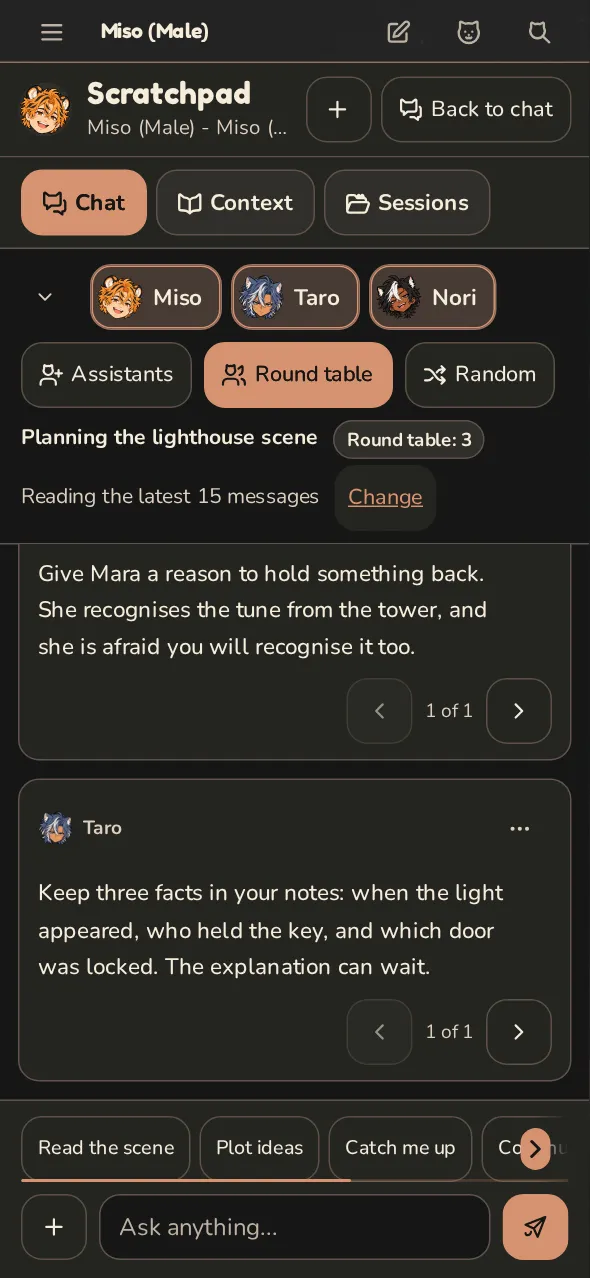
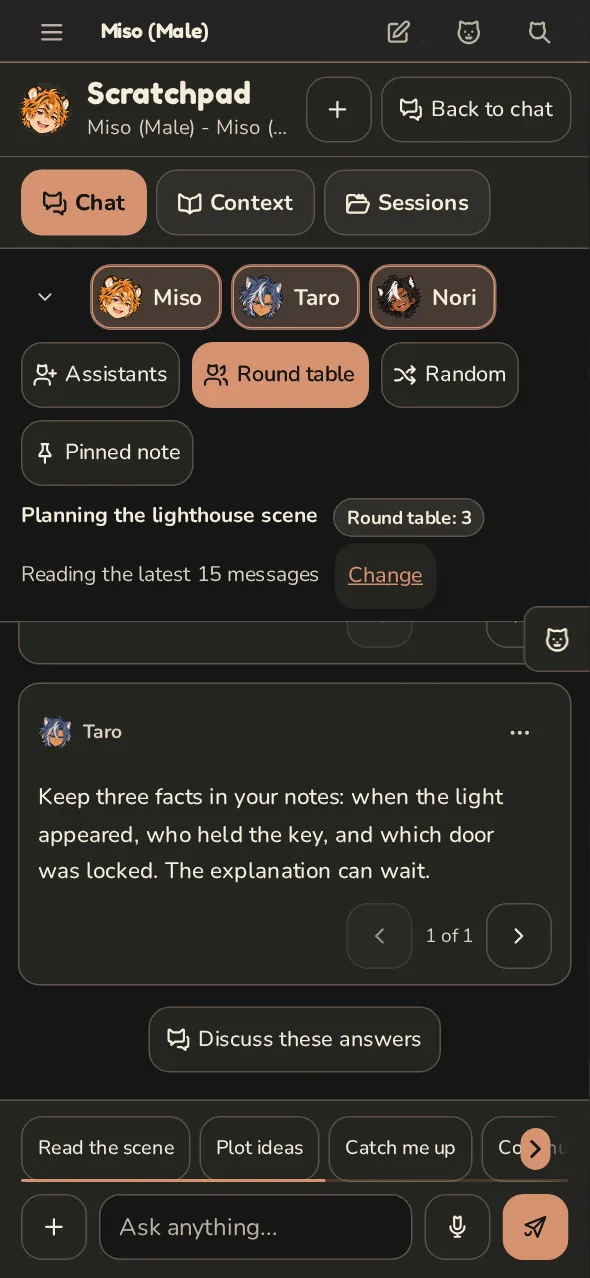
docs(screenshots): refresh desktop and phone workspace views

diff --git a/README.md b/README.md
@@ -6,7 +6,7 @@ I want you to get a reply before you need to understand every setting. The guide
 
 Miso, Taro and Nori explain things in their own voices. You can choose each guide’s male, female or neutral appearance independently. Their dialogue is written documentation; reading it doesn’t call a model.
 
-The site includes 55 pages, a reference for 201 registered macros, twenty-four real demonstration screenshots and a downloadable extension starter. I've reviewed the practical guides for the published [Neconyan 1.5.5 release](https://github.com/platberlitz/Neconyan/releases/tag/v1.5.5) at **`680a05f1`** on 15 November 2026. This edition covers Mewmory's Story tab, Archive tools, in-chat controls, estimates and exports; Scratchpad's quick prompts, typed tools, dictation, branching, export choices and extra change cards; the Translator Agent; the reworked Presets page; the Conversation messenger layout; failed and empty replies; and the Device sync fixes. The two Conversation screenshots are retaken for the new layout; the other twenty-two remain from the 1.5.4 candidate. The macro catalogue retains its reviewed 7 October snapshot. The Scene Note starter and extension styling guide carry the accent button guidance; the other extension examples retain their reviewed 7 October snapshots.
+The site includes 55 pages, a reference for 201 registered macros, twenty-four real demonstration screenshots and a downloadable extension starter. I've reviewed the practical guides for the published [Neconyan 1.5.5 release](https://github.com/platberlitz/Neconyan/releases/tag/v1.5.5) at **`680a05f1`** on 15 November 2026. This edition covers Mewmory's Story tab, Archive tools, in-chat controls, estimates and exports; Scratchpad's quick prompts, typed tools, dictation, branching, export choices and extra change cards; the Translator Agent; the reworked Presets page; the Conversation messenger layout; failed and empty replies; and the Device sync fixes. I refreshed all twenty-four screenshots on 16 November from the 1.5.6 staging build, with the source recorded in [ASSETS.md](ASSETS.md). The macro catalogue retains its reviewed 7 October snapshot. The Scene Note starter and extension styling guide carry the accent button guidance; the other extension examples retain their reviewed 7 October snapshots.
 
 ## Preview locally
 
@@ -43,7 +43,7 @@ Avoid repeated 'same X' phrasing and three-item lists written for rhythm. Keep a
 
 Use demonstration data for screenshots. Desktop captures are 1280×900 and phone captures are 393×852. Keep verification captures in `screenshots/`; that directory is ignored. Images published in the handbook belong in `docs/assets/images/screenshots/`.
 
-Twenty-two of the twenty-four screenshots were taken on 10 November 2026 from the 1.5.4 candidate at `999b46b3`, with the default Calico Dark accent and the larger, rounder Catline icons. The two Conversation screenshots were retaken from 1.5.5 staging on 15 November 2026 and copied from the app README, where they were added in commit `3072a26b`. The Proofreader example uses a fixed sample response through the real Agent workflow, with edit, Undo and Redo checked at both widths. Capture provenance and browser settings are in [ASSETS.md](ASSETS.md). When replacing screenshots, update that record and check the affected guides and screenshot zoom at both widths.
+I captured all twenty-four screenshots on 16 November 2026 from Neconyan at `49d60b17`, using the default Calico Dark accent. The app README uses identical copies. The Proofreader example uses a fixed sample response through the real Agent workflow, with edit, Undo and Redo checked at both widths. Capture provenance and browser settings are in [ASSETS.md](ASSETS.md). When replacing screenshots, update that record and check the affected guides and screenshot zoom at both widths.
 
 ## Update the macro reference
 

diff --git a/ASSETS.md b/ASSETS.md
@@ -4,15 +4,13 @@ The bundled artwork was copied from [Neconyan at 6e0269d0](https://github.com/pl
 
 ## Screenshots
 
-Twenty-two of the twenty-four screenshots were captured on 10 November 2026 from the running [Neconyan 1.5.4 candidate at 999b46b3](https://github.com/platberlitz/Neconyan/tree/999b46b3), with the larger, rounder Catline icons. [Neconyan 1.5.4 is now published](https://github.com/platberlitz/Neconyan/releases/tag/v1.5.4) at release commit `e1f05ec6`; the capture source above remains the actual image provenance. Home, Roleplay, Catelier, Simple Mode, Conversation, Meower, Story Mode, Notebooks, Scratchpad, Agents, Proofreader and Device sync each have a desktop and phone image.
+I captured all twenty-four screenshots on 16 November 2026 from [Neconyan at 49d60b17](https://github.com/platberlitz/Neconyan/tree/49d60b1740f00ee27a5a0b39f255f969748c2c36), the 1.5.6 staging build. Home, Roleplay, Catelier, Simple Mode, Conversation, Meower, Story Mode, Notebooks, Scratchpad, Agents, Proofreader and Device sync each have a desktop and phone image. The app README and this handbook use identical copies.
 
 The captures use disposable demonstration data: Calico Dark with its default accent, bundled assistants and staged chats, posts, notes, a character dossier and a Scratchpad discussion. The default colours were restored and checked before capture. No personal account data was used. The Proofreader example runs the real Agent workflow with one intercepted provider request returning a fixed sample response; its edit, Undo and Redo were checked again at both widths. It isn't a live model demonstration. No external model requests were made.
 
-These replace the twenty-two images captured on 9 November and add the two Device sync images.
+These replace the twenty-two images from the 1.5.4 candidate and the two Conversation images from 1.5.5 staging. Neconyan 1.5.5 remains the published release; the screenshot refresh doesn't change the guides' recorded review version.
 
-The two Conversation images, `desktop-conversation.webp` and `phone-conversation.webp`, are the exception. They were retaken from Neconyan 1.5.5 staging on 15 November 2026 for the new messenger layout and copied unchanged from the app README's `docs/readme/` folder, where they were added in [commit 3072a26b](https://github.com/platberlitz/Neconyan/commit/3072a26b). [Neconyan 1.5.5 is now published](https://github.com/platberlitz/Neconyan/releases/tag/v1.5.5) at release commit `680a05f1`; the capture source above remains the actual image provenance. They show the same staged Miso demonstration text at the same sizes, 1280×900 and 590×1278 pixels. I didn't capture them for this handbook, so the capture notes in this section describe the other twenty-two; the Conversation pair replaces the 10 November Conversation images.
-
-Playwright captured Chromium at 1280×900 for desktop with a pixel ratio of 1, and 393×852 with touch emulation for phone at a pixel ratio of 1.5. These are browser viewport captures, not physical-phone or Safari verification. The screenshots were converted to WebP at quality 80 without resizing or compositing interface elements.
+I used Playwright with Chromium at 1280×900 for desktop with a pixel ratio of 1, and 393×852 with touch emulation for phone at a pixel ratio of 1.5. The saved images are 1280×900 and 590×1278 pixels. These are browser viewport captures, not physical-phone or Safari verification. I converted them to WebP at quality 80, method 6, without resizing or compositing interface elements.
 
 ## Assistant artwork
 

diff --git a/docs/helpers/agents.md b/docs/helpers/agents.md
@@ -11,15 +11,15 @@ Agents do recurring jobs around a reply: add instructions, rewrite prose or keep
 === "Computer"
 
     <figure class="screenshot" markdown>
-    [![Agents on desktop with Proofreader switched on](../assets/images/screenshots/desktop-agents.webp)](../assets/images/screenshots/desktop-agents.webp)
+    [![Agents on desktop, with type filters and tracker controls](../assets/images/screenshots/desktop-agents.webp)](../assets/images/screenshots/desktop-agents.webp)
     <figcaption>Start with one helper and check its Quick settings.</figcaption>
     </figure>
 
 === "Phone"
 
     <figure class="screenshot screenshot--phone" markdown>
-    [![Agents on a phone with Proofreader switched on](../assets/images/screenshots/phone-agents.webp)](../assets/images/screenshots/phone-agents.webp)
-    <figcaption>Apply to reply runs the selected helper on an existing reply.</figcaption>
+    [![Agents on a phone, with the library, helper suggestions and search](../assets/images/screenshots/phone-agents.webp)](../assets/images/screenshots/phone-agents.webp)
+    <figcaption>Browse library adds helpers. Help me choose recommends some for your chat.</figcaption>
     </figure>
 
 ## Start with one helper
@@ -110,7 +110,7 @@ Open **Agent changes** on the edited message to compare the removed and added te
     <figcaption>Check the edit and undo it from the same window.</figcaption>
     </figure>
 
-This example is staged. It sends a fixed sample response through the real Agent workflow, including working Undo and Redo. In normal use your connected model writes the edit, and each pass can cost another request. The example shortens repeated gestures and corrects 'Its' and 'should of' without changing what happens in the scene.
+This example is staged. It sends a fixed sample response through the real Agent workflow, including working Undo and Redo. In normal use your connected model writes the edit, and each pass can cost another request. The example removes repeated descriptions and shortens a gesture without changing what happens in the scene.
 
 ## Short notes before a reply
 

diff --git a/docs/help/about.md b/docs/help/about.md
@@ -30,7 +30,7 @@ The practical guides focus on common tasks and link to longer references when yo
 
 ## Screenshots and artwork
 
-Twenty-two of the twenty-four workspace screenshots were captured from the 1.5.4 candidate on 10 November, using demonstration content and the bundled assistants, not private chats. The two Conversation screenshots were retaken from 1.5.5 staging on 15 November for the new messenger layout, with the same staged demonstration text. The other pages may look slightly different in 1.5.5. The Proofreader example uses a fixed sample response through the real edit-history workflow, not a live model conversation.
+I refreshed all twenty-four workspace screenshots on 16 November 2026 from [Neconyan at 49d60b17](https://github.com/platberlitz/Neconyan/tree/49d60b1740f00ee27a5a0b39f255f969748c2c36), the 1.5.6 staging build. They use the default Calico Dark colours, demonstration content and the bundled assistants. Some details may look different in the published 1.5.5 release. The Proofreader example uses a fixed sample response through the real edit-history workflow, with edit, Undo and Redo checked at both widths. It isn't a live model conversation.
 
 Miso, Taro and Nori use Neconyan's existing assistant artwork, with male, female and neutral variants. Their handbook dialogue is written guidance, not a live model conversation. Gender preferences stay in the browser when storage is available.
 

diff --git a/docs/helpers/catelier.md b/docs/helpers/catelier.md
@@ -23,15 +23,15 @@ Catelier is where you build character cards. Write one yourself, ask a model to 
 === "Computer"
 
     <figure class="screenshot" markdown>
-    [![Catelier's shared Writing instructions on desktop](../assets/images/screenshots/desktop-catelier.webp)](../assets/images/screenshots/desktop-catelier.webp)
-    <figcaption>Writing instructions are saved to your account and used by every Catelier draft.</figcaption>
+    [![Catelier on desktop with Mara Fenwick's character dossier](../assets/images/screenshots/desktop-catelier.webp)](../assets/images/screenshots/desktop-catelier.webp)
+    <figcaption>Keep the character's background, voice and opening scene in a draft.</figcaption>
     </figure>
 
 === "Phone"
 
     <figure class="screenshot screenshot--phone" markdown>
-    [![Catelier's shared Prefill and Stream live output settings on a phone](../assets/images/screenshots/phone-catelier.webp)](../assets/images/screenshots/phone-catelier.webp)
-    <figcaption>Prefill and Stream live output are shared too, so the same choices follow your drafts on a phone.</figcaption>
+    [![Catelier on a phone with a demonstration character dossier](../assets/images/screenshots/phone-catelier.webp)](../assets/images/screenshots/phone-catelier.webp)
+    <figcaption>Work on the dossier before filling in the rest of the card.</figcaption>
     </figure>
 
 ## Ask for help with the writing

diff --git a/docs/help/device-sync.md b/docs/help/device-sync.md
@@ -12,7 +12,7 @@ quote: 'Choose what travels, save on both sides, then transfer. A newer date alo
     I've reviewed this guide against the published [Neconyan 1.5.4 release](https://github.com/platberlitz/Neconyan/releases/tag/v1.5.4) at commit **e1f05ec6** on 11 November 2026.
 
 !!! info "Changed in 1.5.5"
-    I've reviewed this guide against the published [Neconyan 1.5.5 release](https://github.com/platberlitz/Neconyan/releases/tag/v1.5.5) at commit **680a05f1** on 15 November 2026. The fixes marked 1.5.5 below aren't in 1.5.4 or earlier. The screenshots are from 1.5.4.
+    I've reviewed this guide against the published [Neconyan 1.5.5 release](https://github.com/platberlitz/Neconyan/releases/tag/v1.5.5) at commit **680a05f1** on 15 November 2026. The fixes marked 1.5.5 below aren't in 1.5.4 or earlier. I refreshed the screenshots on 16 November from the 1.5.6 staging build; see [About these docs](about.md#screenshots-and-artwork) for the capture source.
 
 === "On desktop"
 

diff --git a/docs/helpers/notebooks.md b/docs/helpers/notebooks.md
@@ -18,7 +18,7 @@ Notebooks is a place to write and keep reference material inside Neconyan. Use i
 === "Phone"
 
     <figure class="screenshot screenshot--phone" markdown>
-    [![Notebooks on a phone, displaying a note in its compact editor](../assets/images/screenshots/phone-notes.webp)](../assets/images/screenshots/phone-notes.webp)
+    [![Notebooks on a phone, displaying a formatted note](../assets/images/screenshots/phone-notes.webp)](../assets/images/screenshots/phone-notes.webp)
     <figcaption>Phone tabs separate the notebook list, current note and details.</figcaption>
     </figure>
 
